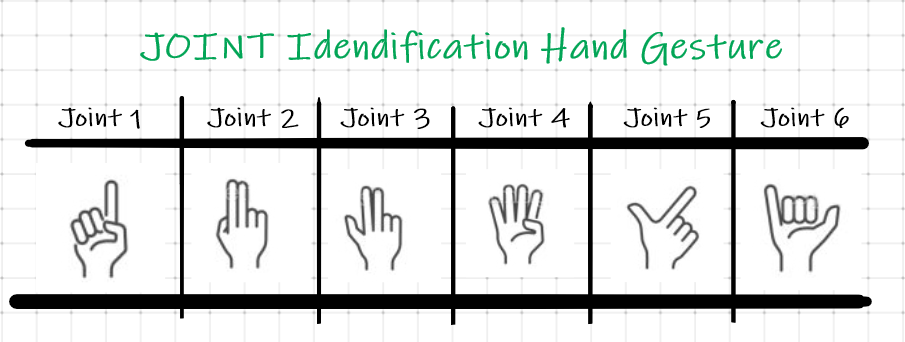
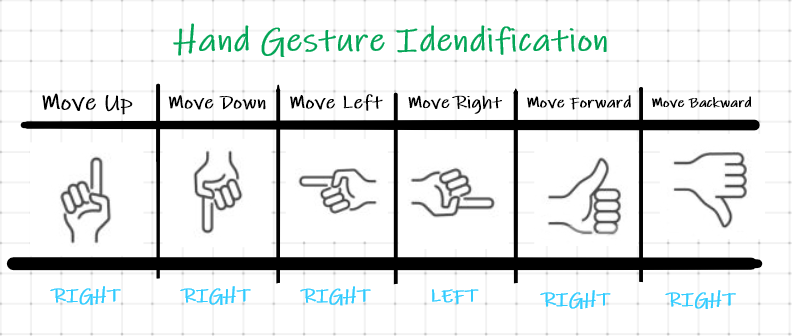
update README

Changed region(s): [[0.0, 0.2381, 0.9697, 0.9524], [0.1515, 0.0595, 0.8788, 0.2083], [0.8485, 0.4762, 0.8788, 0.506]]

diff --git a/README.md b/README.md
@@ -16,27 +16,51 @@
 
 * Our Solution
 
-    - Create a custom language system based on human hand gestures which are recognized by a Trained Neuronal Network and put the robot in motion.
-    - <img src="img/language1.png" width="800px">
-    - <img src="img/language2.png" width="500px">
+    - Create a custom Hand Gesture System based on Human Hand Gestures which are recognized by a Trained Neuronal Network.
+    - Based on the gesture, instructions are sent to the robot in order to controll it.
+
+* Gesture System
+
+    - Hand Gesture **Movement** System 
+    <img src="img/language1.png" width="800px">
+    - Hand Gesture **Base Rotation & Gripper Controll** System <br>
+    <img src="img/language2.png" width="500px">
 
 * How it works
 
-    - First, the human interacting with the robot must specify via the `JOINT Identification Hand Gesture` table the joint it would like to move.
-    - Once the joint has been selected, the human can specify the rotation direction via the `SPIN left` or `SPIN right` gesture.
-    - When the desired position is reached, using the `STOP command`, the human can stop the rotation of the join and confirm that it is indeed the desired position via the `CONFIRM command`.
+    - First, the human interacting with the robot must specify via the `Hand Gesture Identification` table the direction in which the TCP will move.
+    - Once the gesture has been detected, using the `ur_library.py` library, instructions are sent to the robot which moves 1cm at a time in the given direction.
+    - To stop the movement, simply stop indicating the gesture.
+    - In order to rotate the base on a different direction, the `SPIN left/right` gesture from the `SPECIAL Commands` table must be used.
+    - In order to `CLOSE/OPEN gripper`, use the gestures presented in `SPECIAL Commands` table.
 
-## Introduction
+## Components
 
-* program1: genedate data samples (`generate_samples.py`)
-    - <img src="img/program1.jpeg" width="600px">
-* program2: controll robot (`app_controller.py`)
-    - <img src="img/program2.1.PNG" width="900px">
-* program3: train neuronal network (`colab`)
+* Component1: genedate data samples (`generate_samples.py`)
+    - <img src="img/program2.png" width="600px">
+    - Ussage: `python3 generate_samples.py`
+    - Scope: this program's purpose is to help the user create/expand a data set for the given gestures. Select a Gesture and then press `c` in order to capture the frame and save it under `train_data/images/categorizes/<gesture>` 
+
+* Component2: train neuronal network (`colab`)
     - <a href="https://colab.research.google.com/drive/1gl4ZZTF66uqQOuVOxGaAYMsDkpUI2mAB#scrollTo=7SFT3mUiW4rK">https://colab.research.google.com/drive/1gl4ZZTF66uqQOuVOxGaAYMsDkpUI2mAB#scrollTo=7SFT3mUiW4rK</a>
+    - Ussage: follow the steps as presented in the colab, then download the created model.
 
-* program4: 
+* Component3: object detection (`detect.py`)
+    - Ussage: used within **Component5**
+    - Scope: implement a continous detection loop on the given frame and return the results.
 
+* Component4: ur3e library (`ur_library.py`)
+    - Ussage: used within **Component5**
+    - Scope: 
 
-* dataset:
+* Component5: interactive GUI (`app_controller.py`)
+    - <img src="img/program2.1.PNG" width="900px">
+    - Ussage: `python3 app_controller.py`
+    - Scope: link all components into a clean interface which displays the input (video feed) and output (robot movement)
+
+* Component6: dataset (`LINK`)
     - <a href="#">LINK</a>
+
+## Requirements
+    - python-urx: v0.11.02 <a href="https://github.com/SintefManufacturing/python-urx">https://github.com/SintefManufacturing/python-urx</a>
+    - yolov5: <a href="https://github.com/ultralytics/yolov5">https://github.com/ultralytics/yolov5</a>
